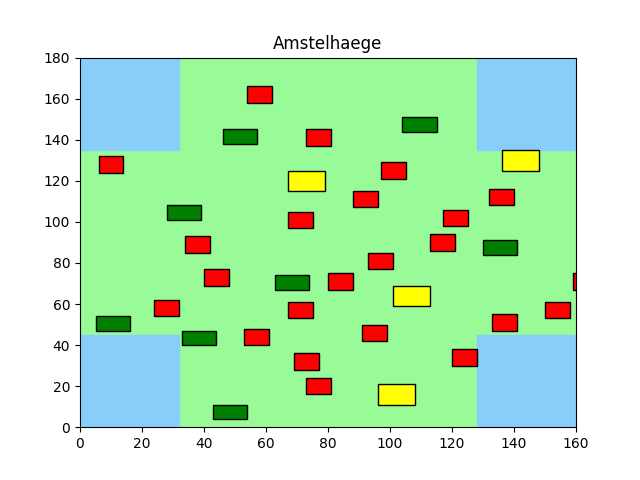
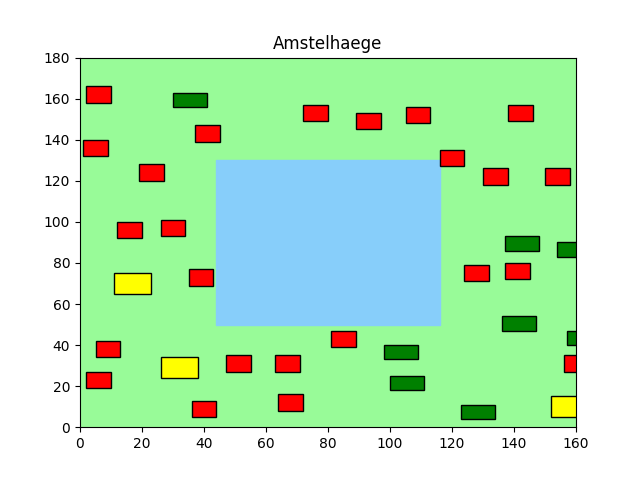
aantal huizen commando

diff --git a/main.py b/main.py
@@ -7,17 +7,28 @@ from output import output
 from code.algorithms.random_placement import random_placement
 
 if __name__ == '__main__':
-
     
-    # 0 for wijk_1, 1 for wijk_2, 2 for wijk_3
-    water_map = int(sys.argv[1])
+    # checks if correct amount of arguments are givem
+    if len(sys.argv) != 3:
+        print("Error: wrong input use: [neighbourhood map] [number of houses]")
+        print("neigbourhood map: choose 0, 1 or 2")
+        print("number of houses: choose 20, 40 or 60")    
+    else:
+        # 0 for wijk_1, 1 for wijk_2, 2 for wijk_3
+        water_map = int(sys.argv[1])
+
+        # maximum number of houses
+        n_houses = int(sys.argv[2])
+
+        #TODO volgens mij kan deze korter
+        # sets default maximum houses to 20
+        if ((n_houses != 20) and (n_houses != 40) and (n_houses != 60)):
+            n_houses = 20
         
-    amstelhaege = Amstelhaege(water_map)
+    amstelhaege = Amstelhaege(water_map, n_houses)
     random_placement(amstelhaege)
 
     waters = amstelhaege.waters
-    visualise(waters, amstelhaege.houses)
-
     visualise(waters, amstelhaege.houses)
 
     output(amstelhaege.neighbourhood)

diff --git a/code/classes/Amstelhaege.py b/code/classes/Amstelhaege.py
@@ -7,7 +7,7 @@ class Amstelhaege():
     """
     class which represents the area in which houses must be build 
     """
-    def __init__(self, choice):
+    def __init__(self, choice, n_houses):
         self.neighbourhood = []
         self.length = 180
         self.width = 160
@@ -15,7 +15,7 @@ class Amstelhaege():
         self.fraction_house_1 = 0.6
         self.fraction_house_2 = 0.25
         self.fraction_house_3 = 0.15
-        self.total = 40
+        self.total = n_houses
 
         self.houses = []
         self.waters = self.load_water(choice)

diff --git a/README.md b/README.md
@@ -25,9 +25,20 @@ Deze code is geschreven in [Python3](https://www.python.org/downloads/). De vere
 ```
 pip install -r requirements.txt
 ```
+
+## Runnen
+Om de code te runnen dient u in u terminal de volgende code in te voeren:
+```
+python main.py <WIJK> <AANTAL HUIZEN>
+```
+WIJK = 0, 1 of 2
+AANTAL HUIZEN = 20, 40 of 60
+
 ## Algoritme
 
 ### Aantal huizen
+Voor de wijk is het mogelijk om een verschillend aantal maximum huizen te plaatsen. De opties hiervoor zijn: 20, 40 en 60.
+Als er een anders getal word meegeven word het maximum automatisch op 20 huizen gezet.
 
 ### Wijken
 In de case is er keuzen uit drie wijken die onderling verschillen in de ligging van het water. Deze wijken zijn van links naar rechts: wijk_1, wijk_2 en wijk_3. Voor wijk_1 dient u `0` als argument mee te geven, voor wijk_2 `1` en voor wijk_3 `2`.
